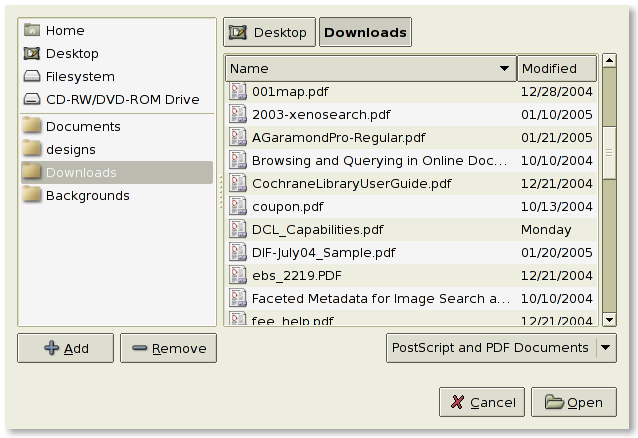
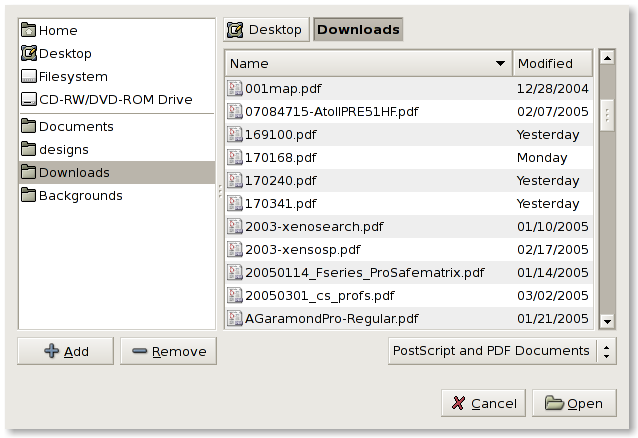
Updated screenshots and screenshot index page.  removed excess image file

Changed region(s): [[0.0, 0.0297, 0.9828, 0.8311], [0.685, 0.8607, 0.9828, 0.9498]]

diff --git a/www.gnome.org/projects/evince/screenshots/index.html b/www.gnome.org/projects/evince/screenshots/index.html
@@ -15,10 +15,8 @@
 <div id="main" class="stripe">
 
 	<a class="title" href="http://www.gnome.org/projects/evince/">
-	  <div id="title">
-	  <h2>Evince</h2><br/><br/>
+	  <strong>Evince</strong><br/><br/>
 	  <em>Simply a document viewer</em>
-	  </div>
 	</a>
 
 	<div class="left">

diff --git a/www.gnome.org/projects/evince/index.html b/www.gnome.org/projects/evince/index.html
@@ -23,8 +23,8 @@
 
  <div id="screenshot">
     <a href="screenshots/">
-	<img src="images/screenshot.png" width="320"
-	height="240" alt="[Evince Screenshot]" />
+	<img src="images/screenshot.png" width="330"
+	height="314" alt="[Evince Screenshot]" />
 	</a>
   </div>
 
